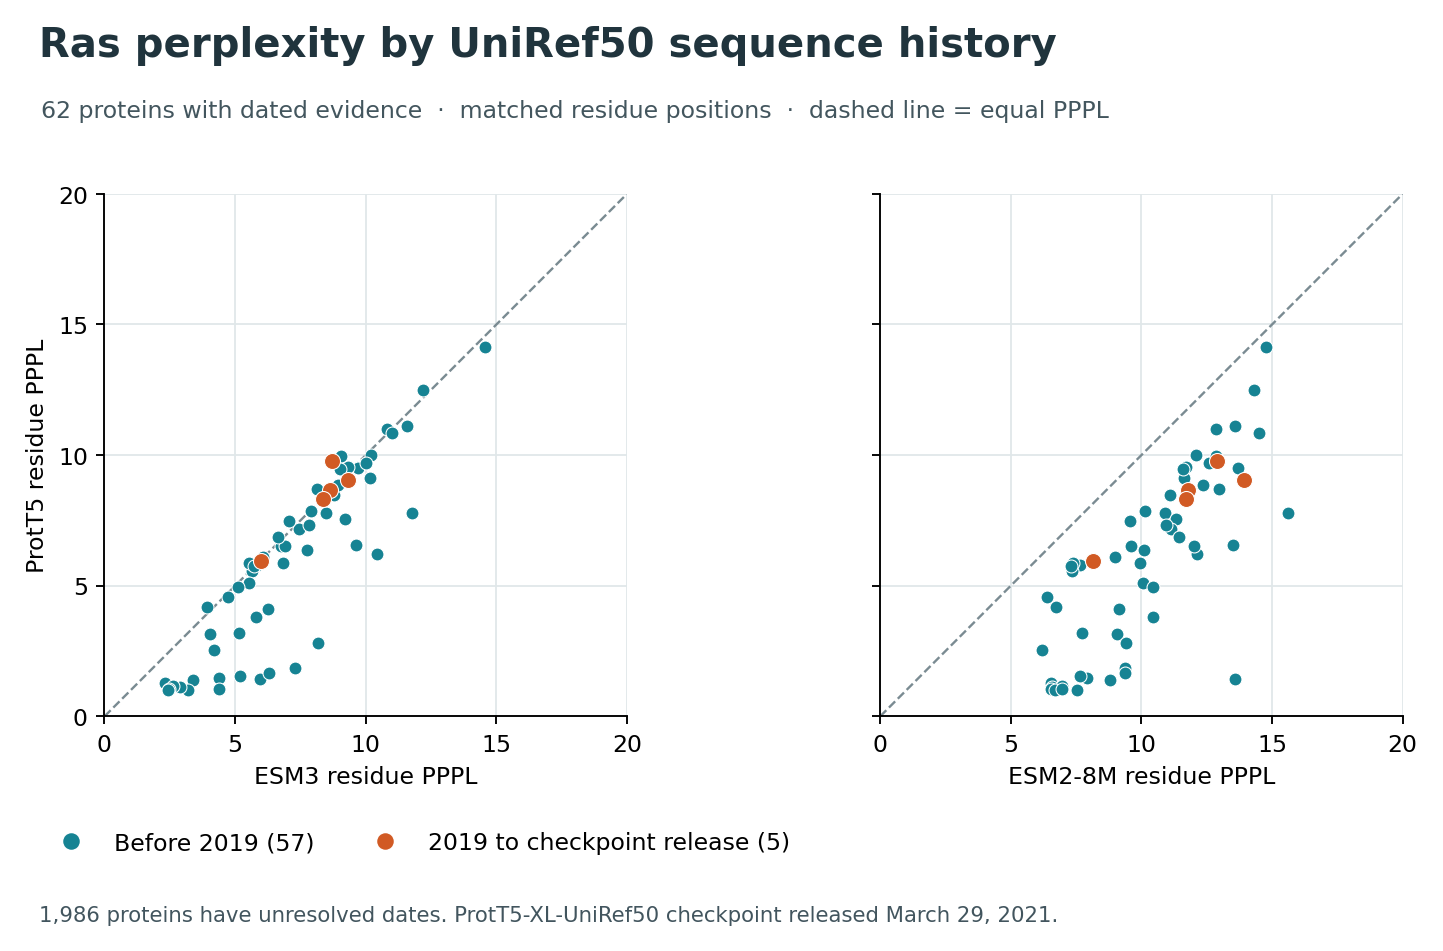
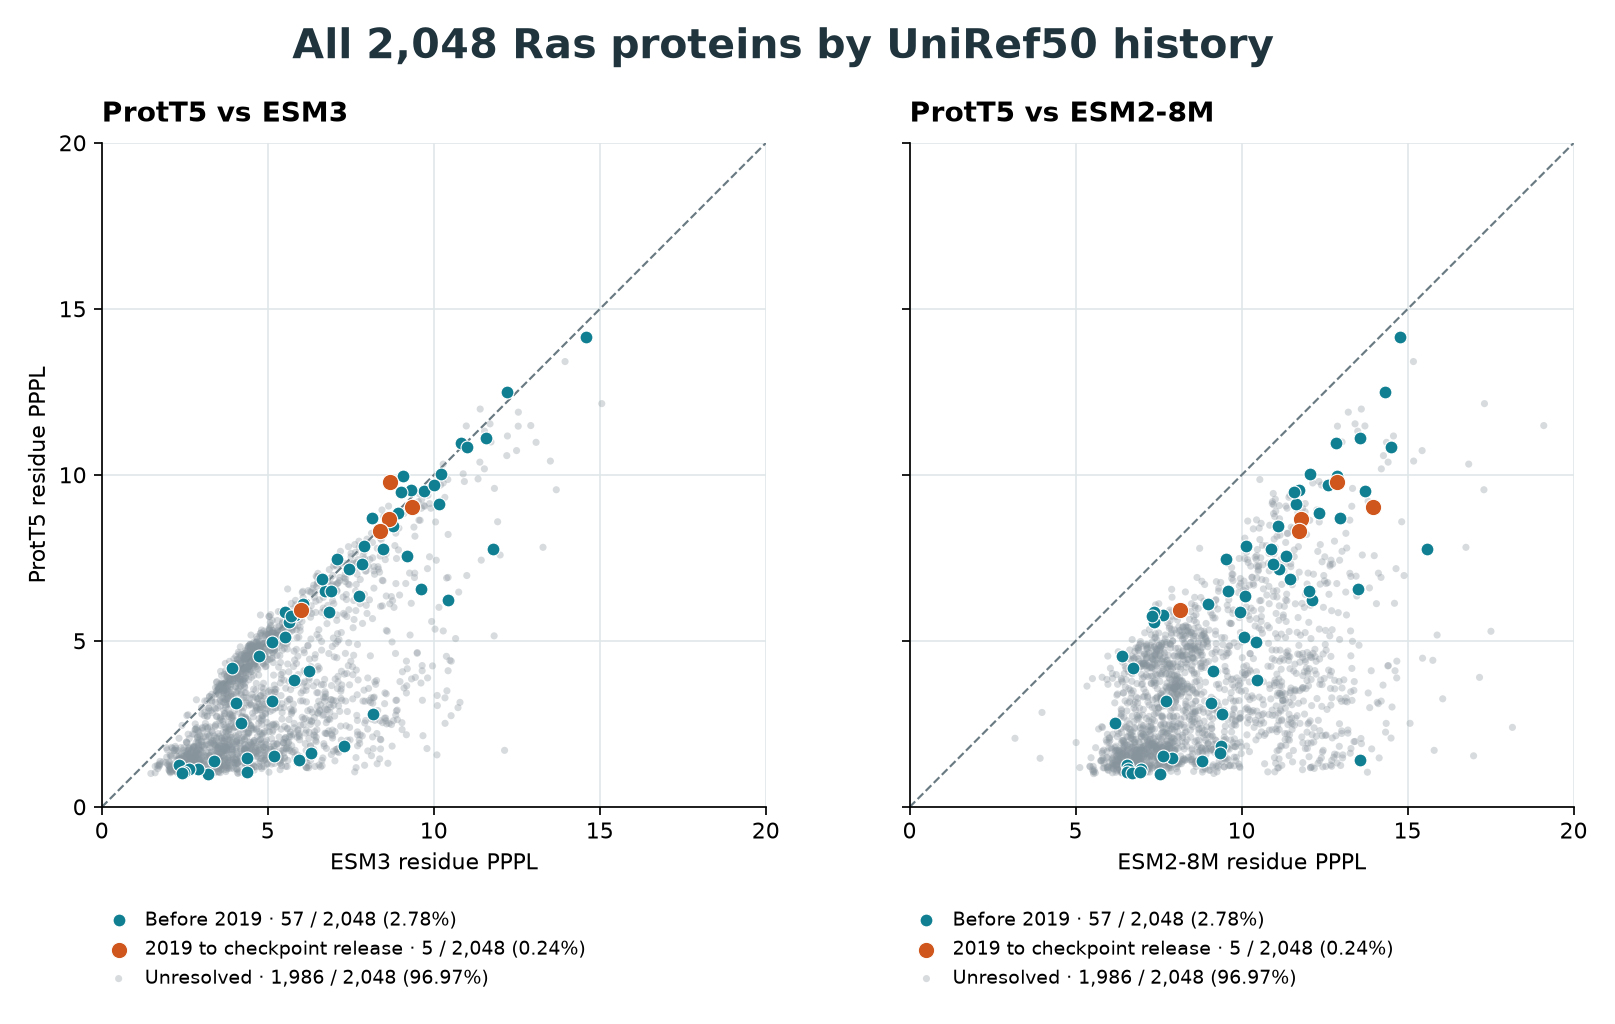
Show UniRef50 counts on the full Ras family plots

diff --git a/esm2-perplexity/index.html b/esm2-perplexity/index.html
@@ -14,23 +14,14 @@ body{margin:0;background:var(--bg);color:var(--text);font:16px/1.5 system-ui,san
 <div class="controls">
 <label>ESM-2 checkpoint<select id="model"></select></label><label>Protein family<select id="family"></select></label>
 <label>Scores to display<select id="stage"><option value="0">Preliminary family sample</option><option value="1">Full-family run</option><option value="2">Short control panel</option></select></label></div>
-<div id="rasFilter" hidden><label>Ras proteins to plot<select id="periodView" style="max-width:24rem"><option value="dated">Compare UniRef50 dates</option><option value="all">All scored proteins</option></select></label>
-<div id="rasLegend" class="plot-legend" hidden><span style="--point:#62bdcd">Before 2019</span><span style="--point:#ffa75b">2019 to checkpoint release</span></div>
-<small id="historyStatus" hidden></small></div>
+<small id="historyStatus" hidden></small>
 <p id="status" aria-live="polite">Loading verified coverage…</p>
 <button type="button" id="showVerified" hidden></button>
 <div class="pair"><div class="panel left"><h3 id="leftTitle">ESM-2 vs ESM3</h3><canvas id="left" aria-label="ESM-2 versus ESM3 scatterplot"></canvas></div>
-<div class="panel right"><h3>ProtT5 vs ESM3</h3><canvas id="right" aria-label="Matched ProtT5 versus ESM3 scatterplot"></canvas></div>
+<div class="panel right"><h3>ProtT5 vs ESM3</h3><canvas id="right" aria-label="Matched ProtT5 versus ESM3 scatterplot"></canvas><div class="plot-legend" id="rasLegend" aria-label="UniRef50 dates among plotted proteins, out of all 2,048 Ras proteins" hidden></div></div>
 <div class="panel direct"><h3 id="directTitle">ProtT5 vs ESM-2</h3><canvas id="direct" aria-label="ESM-2 pseudoperplexity on the horizontal axis and ProtT5 pseudoperplexity on the vertical axis"></canvas>
-</div></div><output id="detail"></output>
+<div class="plot-legend" id="directLegend" aria-label="UniRef50 dates among plotted proteins, out of all 2,048 Ras proteins" hidden></div></div></div><output id="detail"></output>
 <small>One point per protein. All three panels use the same linear scale. The dashed line marks equal scores. Hover or tap a point to see its protein ID and values.</small>
-<section id="ras-history" hidden aria-labelledby="ras-history-title">
-<h2 id="ras-history-title">Ras proteins with dated UniRef50 evidence</h2>
-<figure class="panel" style="margin:0"><a href="ras-pre2019.png?v=two-periods"><img src="ras-pre2019.png?v=two-periods" alt="The same 57 before-2019 and five later Ras representatives in ProtT5 versus ESM3 and ProtT5 versus ESM2-8M plots." loading="lazy" style="display:block;width:100%;height:auto"></a>
-<figcaption>Teal marks 57 exact sequences documented as UniRef50 representatives before January 1, 2019. Orange marks five whose exact sequences first appeared in UniParc in 2019 or later and match UniRef50 representative records dated before the checkpoint release. The date comparison omits 1,986 proteins with unresolved dates. Choose “All scored proteins” above to see the full selection.</figcaption></figure>
-<p>The earlier group uses March 2018 archived identifiers matched to sequence versions, or exact representative records last modified before 2019. The later group uses exact representative records last modified before March 29, 2021. Cluster modification dates bound when a sequence was represented. ProtT5-XL-UniRef50 was released on March 29, 2021. Its exact training dates and membership in its training files remain unknown.</p>
-<p><a href="ras-pre2019.tsv?v=2f7875d4">Per-protein scores, dates and historical identifiers</a> · <a href="https://github.com/facebookresearch/esm#pre-training-dataset-split">March 2018 identifier source</a> · <a href="https://www.uniprot.org/help/uniparc">UniParc records</a> · <a href="https://huggingface.co/Rostlab/prot_t5_xl_uniref50">Training data</a> · <a href="https://zenodo.org/records/4644188">Checkpoint release</a></p>
-</section>
 <section><h2>Protein counts by family and checkpoint</h2><p id="caption" class="muted"></p><p id="complete"></p>
 <label class="search">Find a family<input type="search" id="search" placeholder="Name or Pfam ID"></label>
 <div class="tablebox"><table><thead><tr id="columns"><th scope="col">Family</th></tr></thead><tbody id="body"></tbody></table></div></section>
@@ -44,8 +35,8 @@ function table(){let f=el('search').value.toLowerCase().trim(),stage=+el('stage'
 for(const key of order){const a=snap.families[key];finished+=a.counts[1].filter(n=>n===a.total).length;if(!(key+' '+a.name).toLowerCase().includes(f))continue;hits++;let tr=body.insertRow(),th=document.createElement('th');th.scope='row';th.textContent=a.name+' · '+key;th.title=th.textContent;tr.append(th);a.counts[stage].forEach((n,i)=>{const b=document.createElement('button');b.textContent=fmt(n)+' / '+fmt(a.total);b.title=a.name+', '+models[i]+': '+b.textContent;b.onclick=()=>{el('model').value=i;el('family').value=key;update();el('status').scrollIntoView({block:'center'})};tr.insertCell().append(b)})}
 if(!hits){let cell=body.insertRow().insertCell();cell.colSpan=5;cell.textContent='No matching families.'}
 el('caption').textContent=(['Preliminary sample','Full-family run','Short control panel'][stage])+' · verified proteins / family total. Select a cell to see the matched plots.';el('complete').textContent='Full-family coverage: '+finished+' of '+(4*order.length)+' family–checkpoint comparisons complete.'}
-const historyColors=['#62bdcd','#ffa75b'];
-const historyLabels=['Before 2019','2019 to checkpoint release'];
+const historyColors=['#8693a0','#62bdcd','#ffa75b'];
+const historyLabels=['Unresolved','Before 2019','2019 to checkpoint release'];
 let rasHistory, historyRequest;
 async function loadRasHistory(){
  const response=await fetch('ras-pre2019.tsv?v=2f7875d4');
@@ -59,9 +50,10 @@ async function loadRasHistory(){
  for(const record of records){
   const cells=record.split('\t');
   const group=historyLabels.indexOf(cells[period]);
-  if(group>=0)history.set(cells[id],group);
+  if(group<0||history.has(cells[id]))throw Error('Unknown date group or duplicate Ras protein');
+  history.set(cells[id],group);
  }
- if(records.length!==2048||history.size!==62)throw Error('Incomplete Ras history');
+ if(history.size!==2048)throw Error('Incomplete Ras history');
  return history;
 }
 function plot(canvas,rows,xCol,yCol,labels,color,limit,history){
@@ -76,26 +68,26 @@ function plot(canvas,rows,xCol,yCol,labels,color,limit,history){
   g.fillStyle='#d7e2eb';g.textAlign='center';g.fillText(+v.toPrecision(3),x(v),bottom+17);g.textAlign='right';g.fillText(+v.toPrecision(3),left-6,y(v)+4);
  }
  g.setLineDash([4,5]);g.strokeStyle='#94a1ae';g.beginPath();g.moveTo(left,bottom);g.lineTo(right,top);g.stroke();g.setLineDash([]);
- const groups=history?[[],[]]:[rows];
+ const groups=history?[[],[],[]]:[rows];
  if(history)for(const row of rows)groups[history.get(row[0])].push(row);
  groups.forEach((group,index)=>{
-  const highlight=history&&index===1;
+  const highlight=history&&index>0;
   g.fillStyle=history?historyColors[index]:color;
-  g.globalAlpha=highlight||rows.length<=120?1:.6;
+  g.globalAlpha=highlight||rows.length<=120 ? 1 : (history ? 0.42 : 0.6);
   for(const row of group){
    g.beginPath();g.arc(x(row[xCol]),y(row[yCol]),highlight||rows.length<=120?4:2.7,0,2*Math.PI);g.fill();
-   if(highlight){g.strokeStyle='#fff4da';g.lineWidth=.9;g.stroke();}
+   if(highlight){g.strokeStyle=index===2?'#fff4da':'#153940';g.lineWidth=.9;g.stroke();}
   }
  });
  g.globalAlpha=1;g.fillStyle='#edf3fa';g.textAlign='center';g.fillText(labels[xCol]+' pseudoperplexity',(left+right)/2,h-6);
  g.save();g.translate(14,(bottom+top)/2);g.rotate(-Math.PI/2);g.fillText(labels[yCol]+' pseudoperplexity',0,0);g.restore();
- if(!rows.length){g.fillStyle='#d8e3ed';g.fillText(activeRows.length?'No dated matches in this selection':'No verified scores yet',(left+right)/2,(top+bottom)/2);}
+ if(!rows.length){g.fillStyle='#d8e3ed';g.fillText('No verified scores yet',(left+right)/2,(top+bottom)/2);}
  canvas.onpointermove=canvas.onpointerdown=e=>{
   const rect=canvas.getBoundingClientRect(),px=e.clientX-rect.left,py=e.clientY-rect.top;
   let best=null,dist=130;
   for(const row of rows){
    const d=(x(row[xCol])-px)**2+(y(row[yCol])-py)**2;
-   if(d<dist){best=row;dist=d;}
+   if(d<dist||(best&&d===dist&&history&&history.get(row[0])>history.get(best[0]))){best=row;dist=d;}
   }
   el('detail').textContent=best?best[0]+' · ESM3 '+best[1].toFixed(3)+' · '+labels[3]+' '+best[3].toFixed(3)+' · ProtT5 '+best[2].toFixed(3)+(history?' · '+historyLabels[history.get(best[0])]:''):'';
  };
@@ -103,10 +95,29 @@ function plot(canvas,rows,xCol,yCol,labels,color,limit,history){
 function render(){
  const max=Math.max(2,Math.ceil(activeRows.reduce((n,r)=>Math.max(n,r[1],r[2],r[3]),0)*1.035));
  const labels=['','ESM3','ProtT5','ESM-2 '+models[+el('model').value].split(' · ')[1]];
- const dated=el('family').value==='PF00071'&&el('periodView').value==='dated';
- const history=dated?rasHistory:null;
- const rows=history?activeRows.filter(r=>history.has(r[0])):activeRows;
- el('rasLegend').hidden=!(history&&rows.length);
+ const history=el('family').value==='PF00071'?rasHistory:null;
+ const rows=activeRows;
+ el('rasLegend').hidden=el('directLegend').hidden=!(history&&rows.length);
+ if(history&&rows.length){
+  const counts=[0,0,0],total=history.size;
+  for(const row of rows)counts[history.get(row[0])]++;
+  const legend=el('rasLegend');
+  const title=document.createElement('strong');
+  title.style.flexBasis='100%';
+  const evidence=document.createElement('a');
+  evidence.href='ras-pre2019.tsv?v=2f7875d4';evidence.textContent='UniRef50 representative dates';
+  evidence.title='Per-protein scores and dated evidence';
+  title.append(evidence,' · plotted / full family');
+  legend.replaceChildren(title);
+  for(const i of [1,2,0]){
+   const item=document.createElement('span');
+   item.style.setProperty('--point',historyColors[i]);
+   if(i===2)item.title='From January 1, 2019 until the March 29, 2021 checkpoint release';
+   item.textContent=historyLabels[i]+' · '+fmt(counts[i])+' / '+fmt(total)+' ('+(100*counts[i]/total).toFixed(2)+'%)';
+   legend.append(item);
+  }
+  el('directLegend').replaceChildren(...Array.from(legend.children,item=>item.cloneNode(true)));
+ }
  plot(el('left'),rows,1,3,labels,'#83bffd',max);
  plot(el('right'),rows,1,2,labels,'#efaf74',max,history);
  plot(el('direct'),rows,3,2,labels,'#79d9b1',max,history);
@@ -129,13 +140,11 @@ function fullRunOptions(){
 }
 async function update(){if(!snap)return;const id=++seq,key=el('family').value,m=+el('model').value,s=+el('stage').value,entry=snap.families[key];el('detail').textContent='';el('leftTitle').textContent='ESM-2 '+models[m]+' vs ESM3';fullRunOptions();table();
 el('directTitle').textContent='ProtT5 vs ESM-2 '+models[m].split(' · ')[1];
-el('rasFilter').hidden=el('ras-history').hidden=key!=='PF00071';
 el('historyStatus').hidden=true;
-el('rasLegend').hidden=true;
 activeRows=[];render();el('status').textContent='Loading verified scores…';
 try{let rows=cache.get(entry.sha256);if(!rows){const response=await fetch('data/'+key+'.json?v='+entry.sha256);if(!response.ok)throw Error('fetch');const bytes=await response.arrayBuffer();const hash=Array.from(new Uint8Array(await crypto.subtle.digest('SHA-256',bytes)), n=>n.toString(16).padStart(2,'0')).join('');if(hash!==entry.sha256)throw Error('hash');rows=JSON.parse(new TextDecoder().decode(bytes));cache.set(entry.sha256,rows)}
 if(id!==seq)return;activeRows=rows.filter(r=>r[s+3][m]!=null).map(r=>[r[0],r[1],r[2],r[s+3][m]]);if(activeRows.length!==entry.counts[s][m])throw Error('count');
-if(key==='PF00071'&&el('periodView').value==='dated'&&activeRows.length&&!rasHistory){
+if(key==='PF00071'&&activeRows.length&&!rasHistory){
  try{
   historyRequest??=loadRasHistory();rasHistory=await historyRequest;
  }catch(error){
@@ -144,16 +153,15 @@ if(key==='PF00071'&&el('periodView').value==='dated'&&activeRows.length&&!rasHis
  }
  if(id!==seq)return;
 }
+if(key==='PF00071'&&rasHistory&&activeRows.some(r=>!rasHistory.has(r[0])))throw Error('Missing Ras protein ID');
 const shown=render();ready=true;
-const byDate=key==='PF00071'&&el('periodView').value==='dated'&&rasHistory;
-el('status').textContent=entry.name+' · '+(byDate?fmt(shown)+' dated matches shown from '+fmt(activeRows.length)+' scored proteins':fmt(shown)+' of '+fmt(entry.total)+' proteins shown')+' · '+['preliminary sample','full-family run','short control panel'][s];
+el('status').textContent=entry.name+' · '+fmt(shown)+' of '+fmt(entry.total)+' proteins shown · '+['preliminary sample','full-family run','short control panel'][s];
 const state=new URLSearchParams({family:key,model:snap.models[m],stage:['preview','production','short'][s]});
-if(key==='PF00071')state.set('period',el('periodView').value);
 history.replaceState(null,'','#'+state);}
 catch(e){if(id===seq){activeRows=[];render();el('status').textContent='Could not verify this family’s data. Refresh to retry.'}}}
 async function refresh(){try{const response=await fetch('coverage.json',{cache:'no-store'});if(!response.ok)throw Error('fetch');const next=await response.json();if(snap&&snap.updated===next.updated)return;snap=next;order=Object.keys(snap.families).sort((a,b)=>snap.families[a].name.localeCompare(snap.families[b].name));
-if(first){first=false;const p=new URLSearchParams(location.hash.slice(1));el('periodView').value=p.get('period')==='all'?'all':'dated';for(const key of order)el('family').add(new Option(snap.families[key].name+' · '+key,key));el('family').value=order.includes(p.get('family'))?p.get('family'):'PF00001';el('model').value=Math.max(0,snap.models.indexOf(p.get('model')));el('stage').value=p.has('stage')?Math.max(0,['preview','production','short'].indexOf(p.get('stage'))):Number(p.has('family')||p.has('model')?snap.families[el('family').value].counts[1][+el('model').value]>0:!!bestFullRun());if(el('stage').value==='1'&&!p.has('family')&&!p.has('model'))selectVerified()}
+if(first){first=false;const p=new URLSearchParams(location.hash.slice(1));for(const key of order)el('family').add(new Option(snap.families[key].name+' · '+key,key));el('family').value=order.includes(p.get('family'))?p.get('family'):'PF00001';el('model').value=Math.max(0,snap.models.indexOf(p.get('model')));el('stage').value=p.has('stage')?Math.max(0,['preview','production','short'].indexOf(p.get('stage'))):Number(p.has('family')||p.has('model')?snap.families[el('family').value].counts[1][+el('model').value]>0:!!bestFullRun());if(el('stage').value==='1'&&!p.has('family')&&!p.has('model'))selectVerified()}
 el('updated').textContent='Verified snapshot: '+new Date(snap.updated).toLocaleString('en-US',{timeZone:'America/Los_Angeles',timeZoneName:'short'});await update()}catch(e){el('updated').textContent=ready?'Refresh unavailable; displaying the last loaded snapshot.':'Coverage unavailable. Please reload.'}}
-for(const id of ['family','model','periodView'])el(id).onchange=update;el('stage').onchange=()=>{if(snap&&el('stage').value==='1')selectVerified();update()};el('showVerified').onclick=()=>{selectVerified();update()};el('search').oninput=table;let timer;window.addEventListener('resize',()=>{clearTimeout(timer);timer=setTimeout(()=>{if(ready)render()},120)});refresh();setInterval(refresh,120000);
+for(const id of ['family','model'])el(id).onchange=update;el('stage').onchange=()=>{if(snap&&el('stage').value==='1')selectVerified();update()};el('showVerified').onclick=()=>{selectVerified();update()};el('search').oninput=table;let timer;window.addEventListener('resize',()=>{clearTimeout(timer);timer=setTimeout(()=>{if(ready)render()},120)});refresh();setInterval(refresh,120000);
 if(window.parent!==window&&new URLSearchParams(location.search).get('embed')==='1'){document.documentElement.classList.add('embedded');const main=document.querySelector('main');const resize=()=>parent.postMessage({type:'esm2-height',height:main.getBoundingClientRect().height+16},'*');new ResizeObserver(resize).observe(main);resize()}
 </script></body></html>
